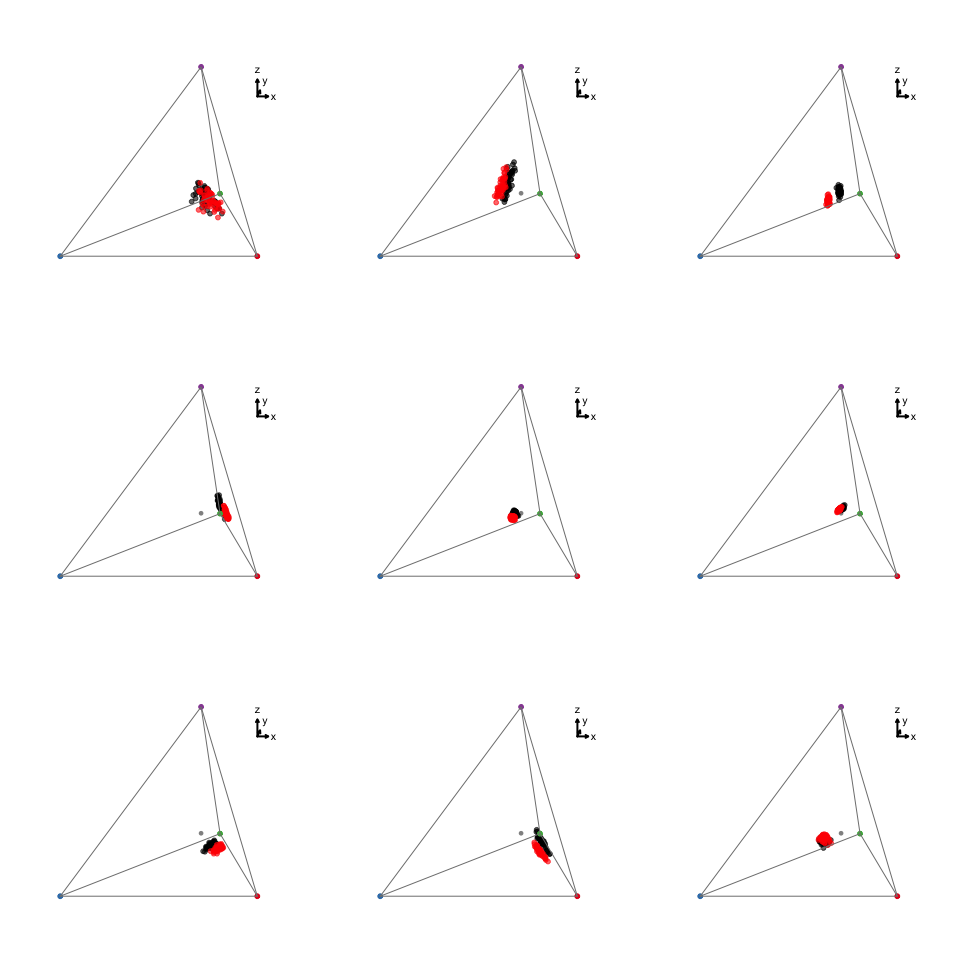
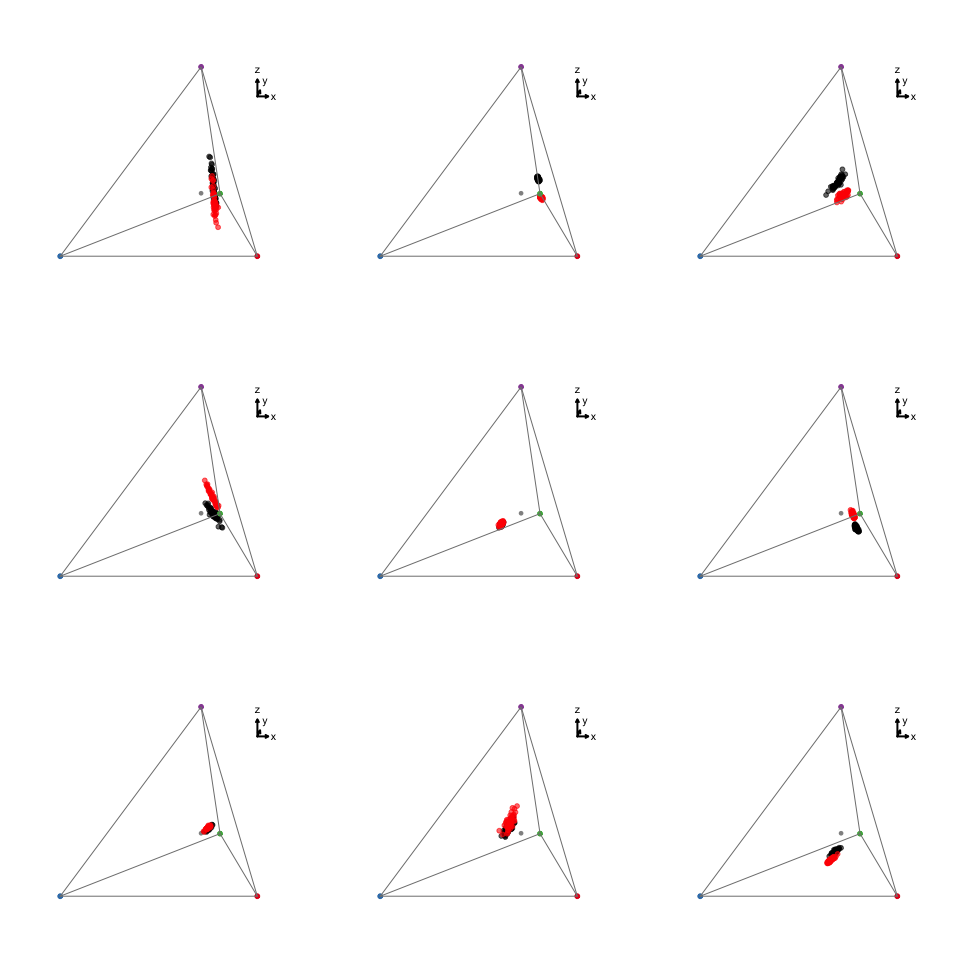
simsimsims

diff --git a/simspt2.md b/simspt2.md
@@ -3,7 +3,7 @@ Simulation definitions
 
 -   *u**s**m**l* ∼ 𝓁𝓃𝒩(*l**n*(*μ*),*σ*<sup>2</sup>)
 -   *μ*<sub>*u**s**m**l*</sub> ∼ 𝒰(1, 10), covariances = 0
--   *σ*<sub>*u**s**m**l*</sub><sup>2</sup> ∼ ℰ𝓍𝓅(*λ* = 10) (such that $\overline{\sigma^2} = 0.1$).
+-   *σ*<sub>*u**s**m**l*</sub><sup>2</sup> ∼ ℰ𝓍𝓅(*λ* = 10) (such that $\\overline{\\sigma^2} = 0.1$).
 -   Also, *σ*<sub>*A*<sub>*u**s**m**l*</sub></sub><sup>2</sup> = *σ*<sub>*B*<sub>*u**s**m**l*</sub></sub><sup>2</sup>
 -   difference between group A and group B: *μ*<sub>*A*<sub>*u**s**m**l*</sub></sub> = *μ*<sub>*B*<sub>*u**s**m**l*</sub></sub> \* *X*, where *X* ∼ 𝒰(0.95, 1.05) (that is, group B *usml* should be up to 5% different than group A *usml*)
 -   *N*<sub>*A*</sub> = *N*<sub>*B*</sub> = 50
@@ -67,7 +67,7 @@ adoniscoldist <- function(x){
 Simulate 500 datasets
 
 ``` r
-simulatedata <- replicate(100, 
+simulatedata <- replicate(200, 
                   simdich(N=50, sgsqsrate=10, multiplier=c(0.95, 1.05)), 
                   simplify=FALSE)
 
@@ -106,6 +106,7 @@ Let's see what our results look like
 -   There is no association between how well groups can be told apart (PERMANOVA R-squared) and the mean between-group distances
 -   There between-group JND distance is not a good predictor of if the groups can be told apart (i.e. if the PERMANOVA is significant)
 -   If anything these associations are negative - probably because of the mean-variance relationship in lognormal distributions?
+-   I actually think now that it's because in overall low JNDs, the inter-group variance dominates, but in high JNDs it's essentially just the within-group varince (so lower resolution between-groups).
 
 This is annoying, wasn't really what I was trying to simulate. But makes the point accross...
 
@@ -114,13 +115,13 @@ Let's try some other simulations.
 Test 1: increase within-group variance
 --------------------------------------
 
-Let's change *σ*<sub>*u**s**m**l*</sub><sup>2</sup> such that *σ*<sub>*u**s**m**l*</sub><sup>2</sup> ∼ ℰ𝓍𝓅(*λ* = 1) (and $\\overline{\\sigma^2} = 1$).
+Let's change *σ*<sub>*u**s**m**l*</sub><sup>2</sup> such that *σ*<sub>*u**s**m**l*</sub><sup>2</sup> ∼ ℰ𝓍𝓅(*λ* = 5) (and $\\overline{\\sigma^2} = 0.2$).
 
 Simulate 500 datasets
 
 ``` r
-simulatedata.t1 <- replicate(100, 
-                  simdich(N=50, sgsqsrate=1, multiplier=c(0.95, 1.05)), 
+simulatedata.t1 <- replicate(200, 
+                  simdich(N=50, sgsqsrate=5, multiplier=c(0.95, 1.05)), 
                   simplify=FALSE)
 
 simulatecoldist.t1 <- parallel::mclapply(simulatedata.t1, function(x) {
@@ -171,7 +172,7 @@ Now let's change the multiplier for the difference between group A and group B s
 Simulate 500 datasets
 
 ``` r
-simulatedata.t2 <- replicate(100, 
+simulatedata.t2 <- replicate(200, 
                   simdich(N=50, sgsqsrate=10, multiplier=c(0.6, 1.4)), 
                   simplify=FALSE)
 
@@ -230,17 +231,17 @@ sessionInfo()
     ## [1] stats     graphics  grDevices utils     datasets  methods   base     
     ## 
     ## other attached packages:
-    ## [1] knitr_1.13           lme4_1.1-12          Matrix_1.2-6        
-    ## [4] vegan_2.4-0          lattice_0.20-33      permute_0.9-0       
-    ## [7] scatterplot3d_0.3-37 pavo_0.5-5           rgl_0.95.1441       
+    ## [1] lme4_1.1-12          Matrix_1.2-6         vegan_2.4-0         
+    ## [4] lattice_0.20-33      permute_0.9-0        scatterplot3d_0.3-37
+    ## [7] pavo_0.5-5           rgl_0.95.1441       
     ## 
     ## loaded via a namespace (and not attached):
-    ##  [1] Rcpp_0.12.5        cluster_2.0.4      magrittr_1.5      
-    ##  [4] splines_3.3.0      maps_3.1.0         magic_1.5-6       
-    ##  [7] MASS_7.3-45        minqa_1.2.4        geometry_0.3-6    
-    ## [10] stringr_1.0.0      tools_3.3.0        parallel_3.3.0    
-    ## [13] grid_3.3.0         nlme_3.1-127       mgcv_1.8-12       
-    ## [16] htmltools_0.3.5    yaml_2.1.13        digest_0.6.9      
-    ## [19] nloptr_1.0.4       mapproj_1.2-4      formatR_1.4       
-    ## [22] codetools_0.2-14   rcdd_1.1-10        evaluate_0.9      
+    ##  [1] Rcpp_0.12.5        cluster_2.0.4      knitr_1.13        
+    ##  [4] magrittr_1.5       splines_3.3.0      maps_3.1.0        
+    ##  [7] magic_1.5-6        MASS_7.3-45        minqa_1.2.4       
+    ## [10] geometry_0.3-6     stringr_1.0.0      tools_3.3.0       
+    ## [13] parallel_3.3.0     grid_3.3.0         nlme_3.1-127      
+    ## [16] mgcv_1.8-12        htmltools_0.3.5    yaml_2.1.13       
+    ## [19] digest_0.6.9       nloptr_1.0.4       mapproj_1.2-4     
+    ## [22] formatR_1.4        rcdd_1.1-10        evaluate_0.9      
     ## [25] rmarkdown_0.9.6.10 stringi_1.0-1
